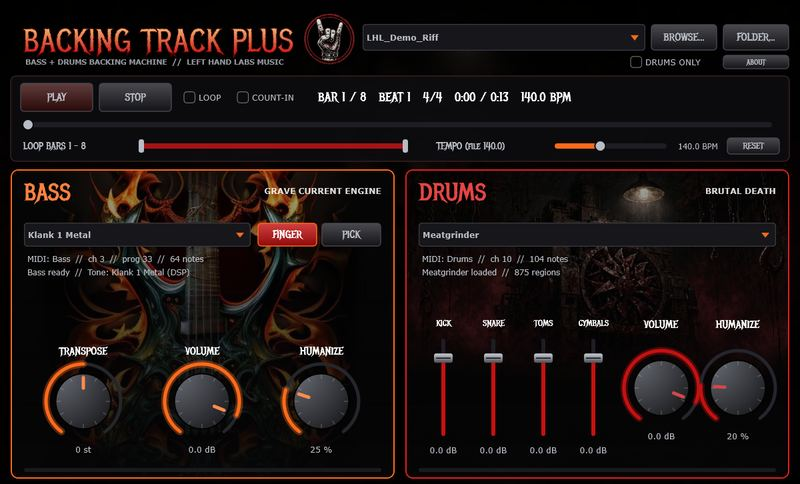
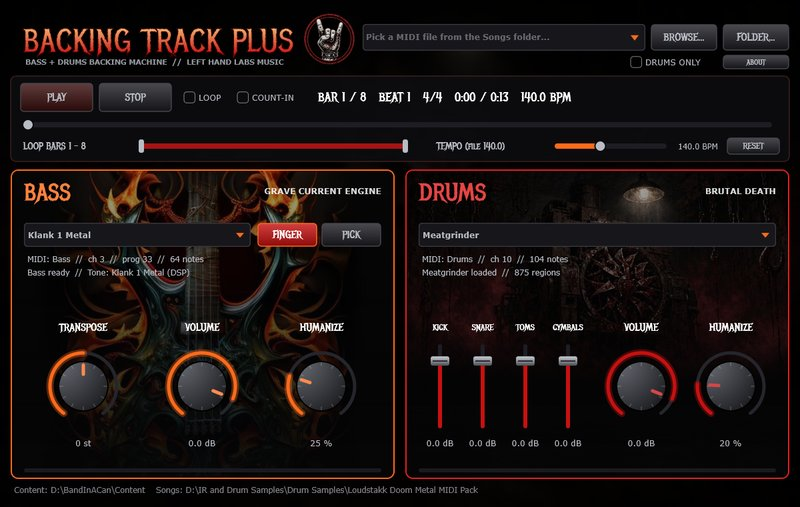
Update plugin UI screenshot to final 1.0.0 layout

Changed region(s): [[0.0, 0.031, 1.0, 0.9917], [0.2188, 0.155, 0.7188, 0.2169]]

diff --git a/free/index.html b/free/index.html
@@ -56,7 +56,7 @@
         <span class="fine">Email only. Windows only for now.</span>
       </div>
     </div>
-    <div class="shot tilt"><img src="../assets/img/plugin-ui.jpg" srcset="../assets/img/plugin-ui-800.jpg 800w, ../assets/img/plugin-ui.jpg 1200w" sizes="(min-width:900px) 580px, 100vw" alt="The free practice plugin's main window: the Backing Track Plus header, transport with loop and count-in, loop-bar and tempo sliders, a bass panel with tone picker and knobs, and a drums panel with kit picker and faders" width="1200" height="726"></div>
+    <div class="shot tilt"><img src="../assets/img/plugin-ui.jpg" srcset="../assets/img/plugin-ui-800.jpg 800w, ../assets/img/plugin-ui.jpg 1200w" sizes="(min-width:900px) 580px, 100vw" alt="The free practice plugin's main window: the Backing Track Plus header, transport with loop and count-in, loop-bar and tempo sliders, a bass panel with tone picker and knobs, and a drums panel with kit picker and faders" width="1200" height="760"></div>
   </div>
 </section>
 <section id="features">

diff --git a/index.html b/index.html
@@ -56,7 +56,7 @@
         <span class="fine">Email only. Windows only for now.</span>
       </div>
     </div>
-    <div class="shot tilt"><img src="assets/img/plugin-ui.jpg" srcset="assets/img/plugin-ui-800.jpg 800w, assets/img/plugin-ui.jpg 1200w" sizes="(min-width:900px) 580px, 100vw" alt="The free practice plugin's main window: the Backing Track Plus header, transport with loop and count-in, loop-bar and tempo sliders, a bass panel with tone picker and knobs, and a drums panel with kit picker and faders" width="1200" height="726"></div>
+    <div class="shot tilt"><img src="assets/img/plugin-ui.jpg" srcset="assets/img/plugin-ui-800.jpg 800w, assets/img/plugin-ui.jpg 1200w" sizes="(min-width:900px) 580px, 100vw" alt="The free practice plugin's main window: the Backing Track Plus header, transport with loop and count-in, loop-bar and tempo sliders, a bass panel with tone picker and knobs, and a drums panel with kit picker and faders" width="1200" height="760"></div>
   </div>
 </section>
 <section id="get" class="signup-sec">
